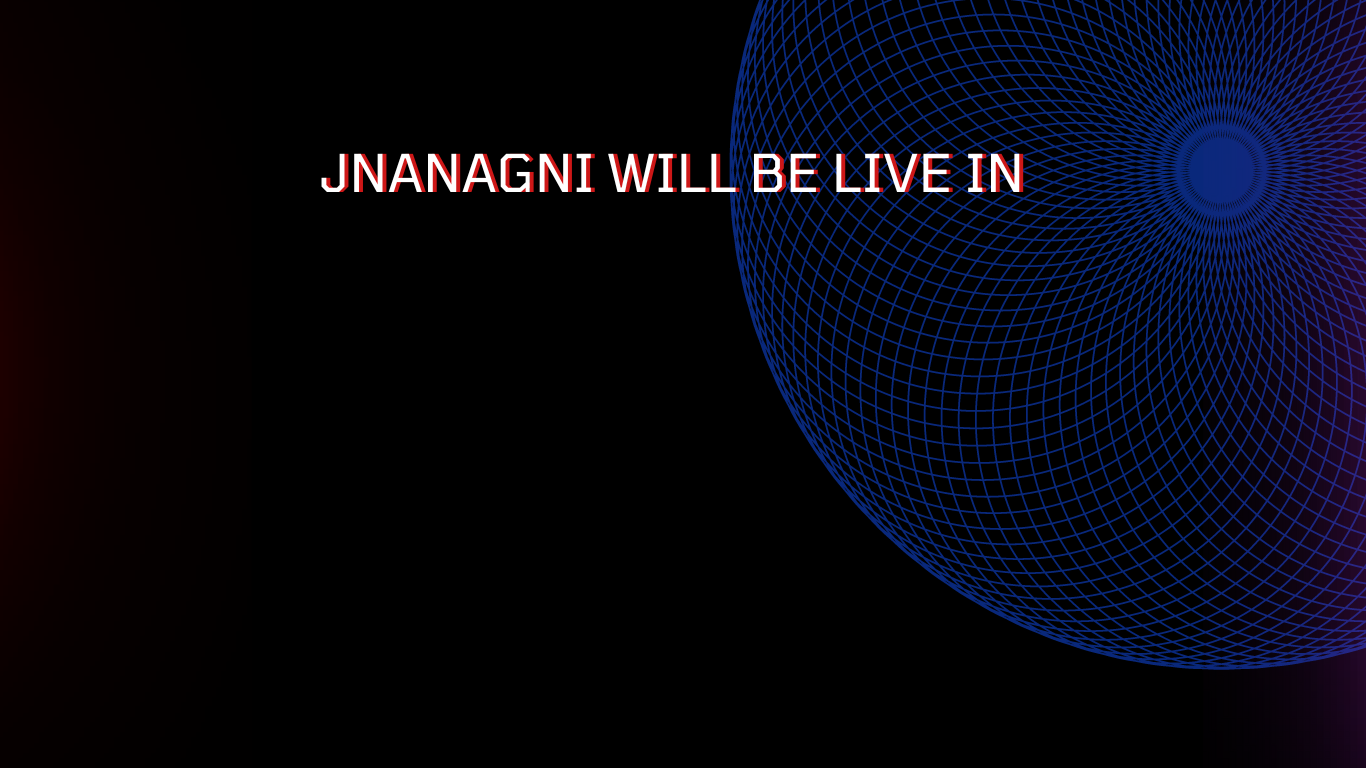
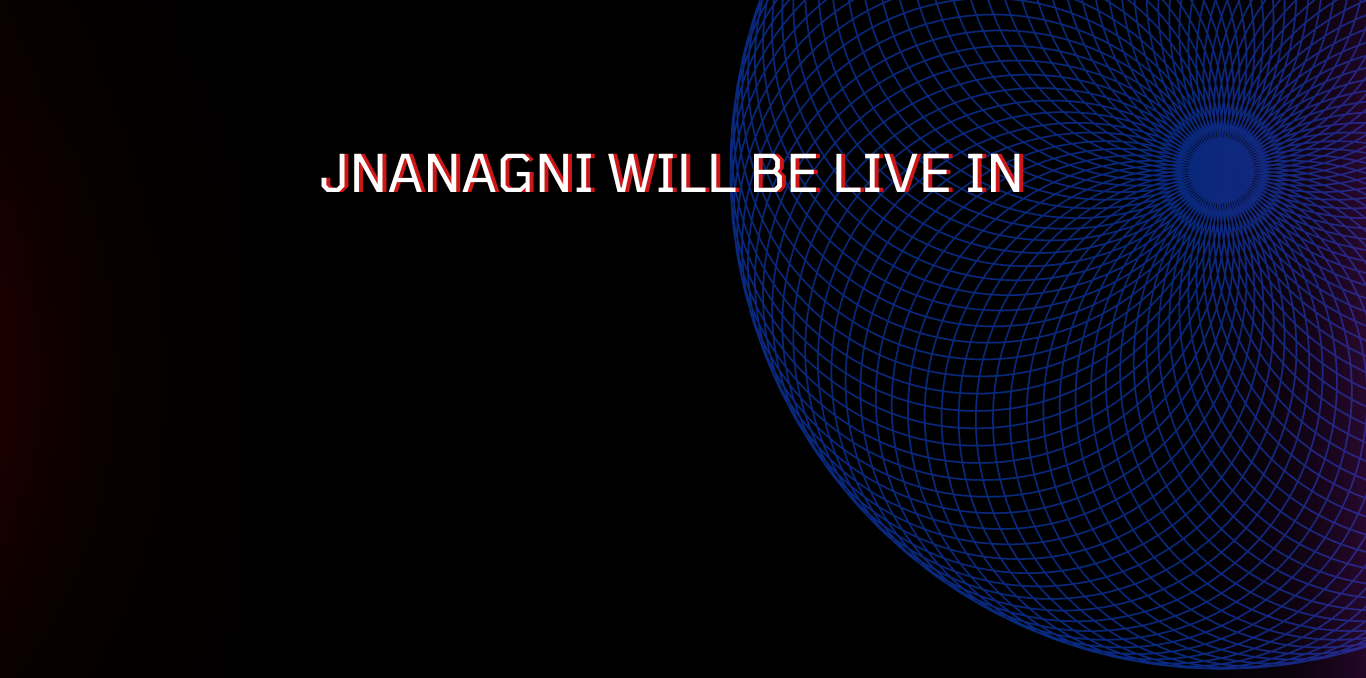
home page

Changed region(s): [[0.2152, 0.0, 1.0, 0.9912]]

diff --git a/style.css b/style.css
@@ -14,7 +14,7 @@ html {
 
 body {
   margin: 0px;
-  background-color: black;
+  background-color: rgb(0, 0, 0);
 }
 
 li {
@@ -148,8 +148,8 @@ nav a {
   top: 55%;
   left: 10%;
   right: 10%;
-  font-size: 25px;
-  text-align: justify;
+  font-size: 23px;
+  text-align:center;
   font-family: 'Oswald', sans-serif;
 }
 
@@ -171,28 +171,28 @@ nav a {
 .card1 {
   position: absolute;
   top: 65%;
-  left: 22%;
+  left: 19%;
   transform: translate(-50%, -50%);
 }
 
 .card2 {
   position: absolute;
   top: 65%;
-  left: 41%;
+  left: 40%;
   transform: translate(-50%, -50%);
 }
 
 .card3 {
   position: absolute;
   top: 65%;
-  left: 60%;
+  left: 61%;
   transform: translate(-50%, -50%);
 }
 
 .card4 {
   position: absolute;
   top: 65%;
-  left: 79%;
+  left: 82%;
   transform: translate(-50%, -50%);
 }
 
@@ -327,13 +327,13 @@ nav a {
 
 .clockdiv {
   position: absolute;
-  top: 25%;
-  left: 10%;
+  top: 30%;
+  left: 20%;
   color: #fff;
   display: inline-block;
   font-weight: bolder;
   text-align: center;
-  font-size: 200px;
+  font-size: 120px;
 }
 
 .clockdiv>div {
@@ -341,14 +341,15 @@ nav a {
   border-radius: 3px;
   background: #231f20;
   display: inline-block;
-  width: 270px;
-  height: 270px;
+  width: 200px;
+  height: 220px;
   text-align: center;
 }
 
 .clockdiv div>span {
-  width: 230px;
-  height: 230px;
+  text-align: center;
+  width: 150px;
+  height: 150px;
   border-radius: 3px;
   background: #000000;
   display: inline-block;
@@ -358,9 +359,8 @@ nav a {
 }
 
 .smalltext {
+  margin-top: -15px;
   font-size: 20px;
-  border: 2px solid #ffffff;
-  background: rgba(251, 251, 251, 0.2);
 }
 
 

diff --git a/index.html b/index.html
@@ -58,12 +58,12 @@
     <img class="about-bg" src="assets/about-bg.png" alt="about-bg"/>
     <div class="about-paragraph">
       <p>
-        Jnanagni, the annual socio-techno-cultural fest of Gurukula Kangri (Deemed to be University), Haridwar, is the
+        Jnanagni, the annual Socio-Techno-Cultural fest of Gurukula Kangri (Deemed to be University), Haridwar, is the
         conjugation of the best minds in the country. It is a platform for your ideas to be heard and skills to be
         promoted to reach the pinnacle of your mind. Demonstrate your abilities in non-technical, cultural, and sports
         areas.
       </p>
-      <p>Over the past 8 years, Jnanagni has been a stage for engineering innovations and to make raw ideas echo,
+      <p>Over the past 15 years, Jnanagni has been a stage for engineering innovations and to make raw ideas echo,
         setting
         new quality benchmarks. Jnanagni has established itself as a brand recognized by intellectuals and professionals
         from various fields throughout the country. It will be a three-day journey to your cerebral awakening and
